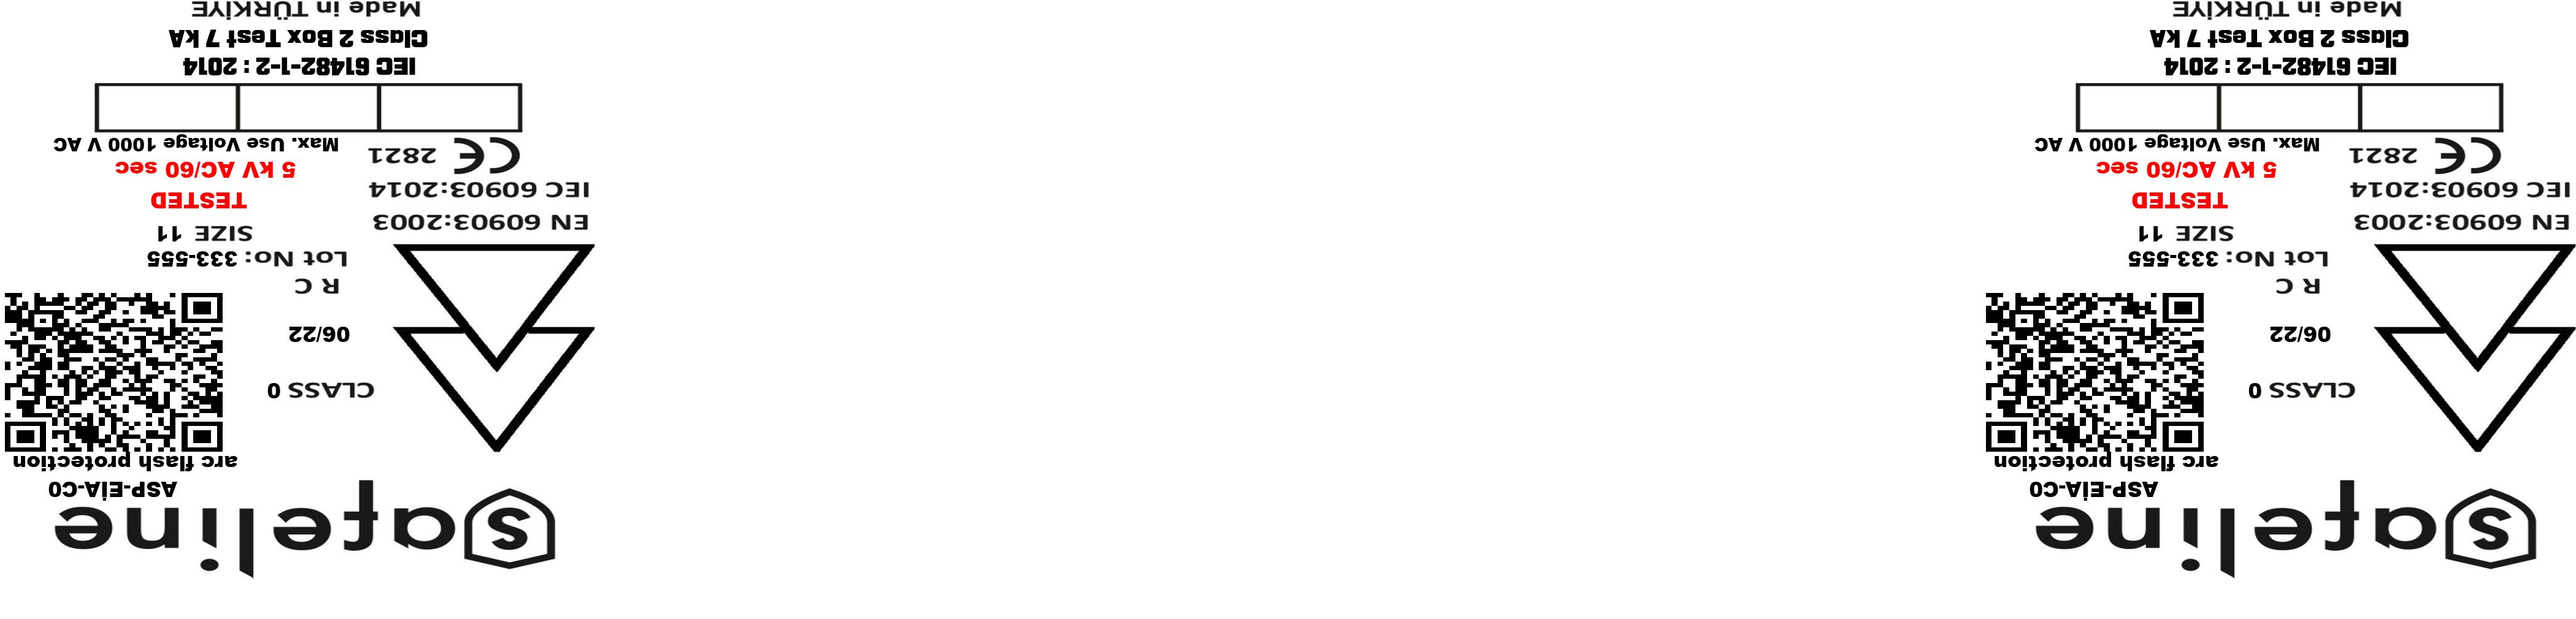
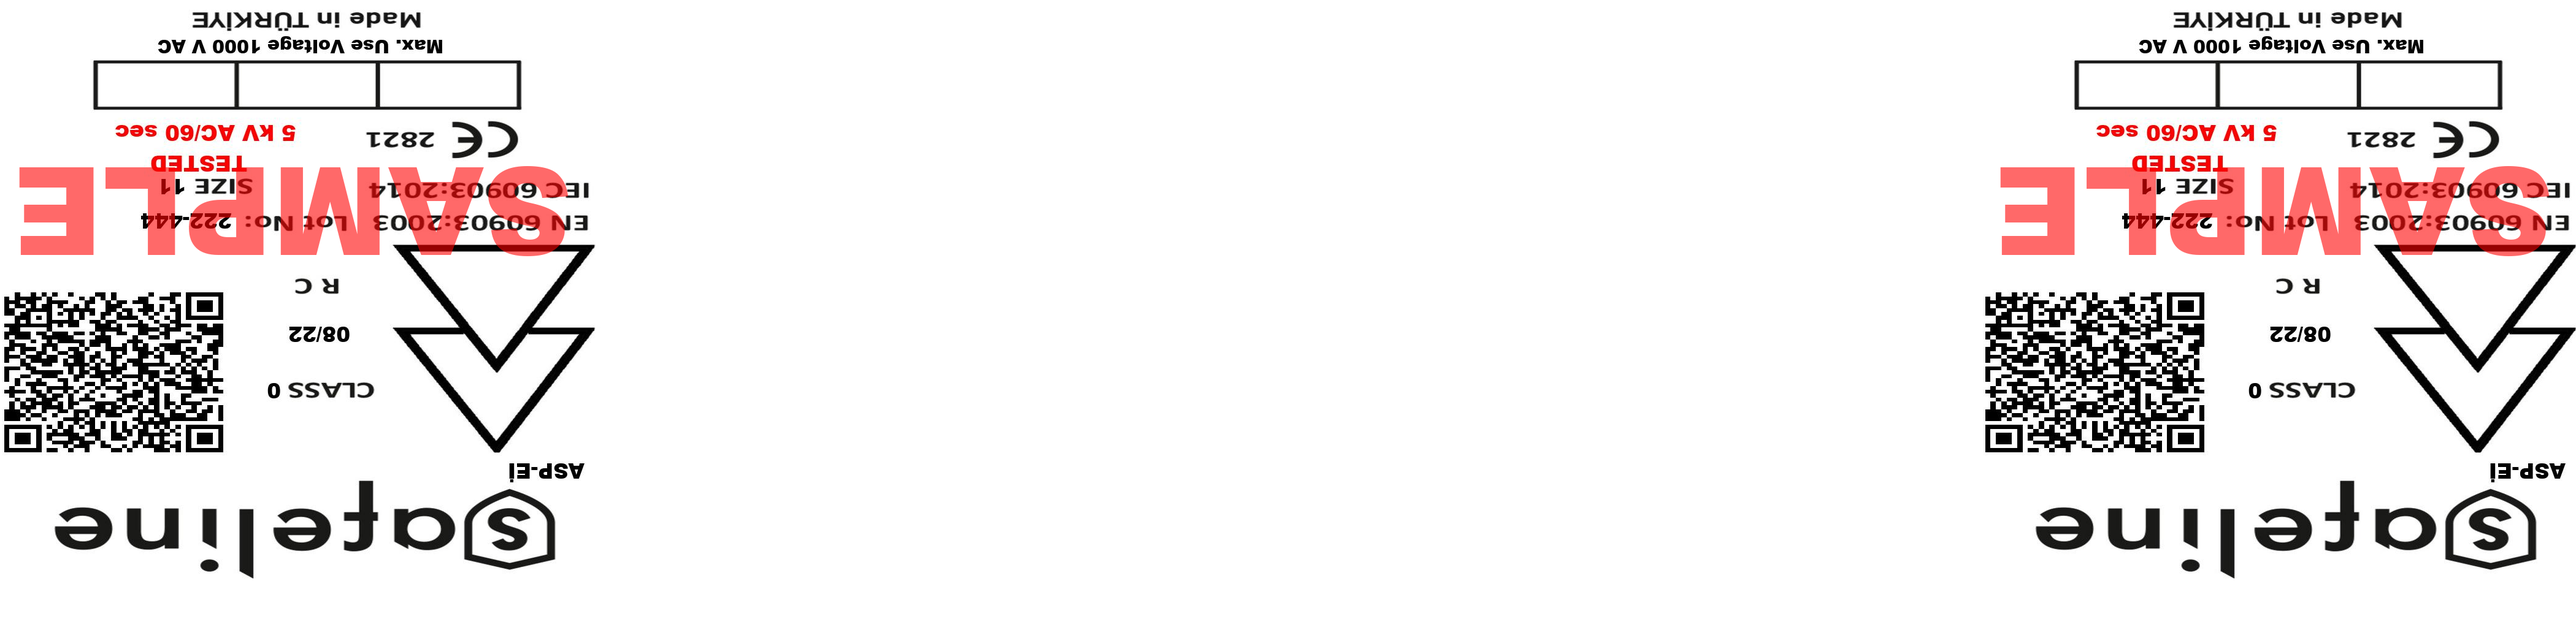
Class 1 Seçeneği Eklendi.

diff --git a/Kod/functions.py b/Kod/functions.py
@@ -94,6 +94,10 @@ def qrCodeOlustur(sinifInput,saEleman,isSample):
         testkv = "5kV"
         maxUseVoltage = "1000V"
 
+    elif(sinifInput == "1"):
+        testkv = "10kV"
+        maxUseVoltage = "7500V"
+
     elif(sinifInput == "4"):
         testkv = "40kV"
         maxUseVoltage = "36.000V"
@@ -260,7 +264,7 @@ def yaziResimBirlesme(classType,size,lotNo,saEleman,boxTest):
                                 fill=(255, 0, 0))  # SOLBOSLUK,USTBOSLUK
 
             if (boxTest):  # box test checkbox'u işaretlendiyse burası true oluyor.
-                arcDetay = "  IEC 61482-1-2 : 2014 Class 2 Box Test 7 kA\n\t\t\t\t\t\t\t\tASTM F2675:APTV {} cal/cm".format(calVeri)
+                arcDetay = "  IEC 61482-1-2 : 2014 Class 2 Box Test 7 kA\n\t\t\t\t\t\t\t\tASTM F2675:APTV {} cal/cm²".format(calVeri)
                 arcDetayEtiket = ImageDraw.Draw(img)
                 arcDetayEtiket.text((90, 810), "{}".format(arcDetay), font=arcDetayFont,
                                     fill=(0, 0, 0))  # SOLBOSLUK,USTBOSLUK
@@ -294,6 +298,10 @@ def yaziResimBirlesme(classType,size,lotNo,saEleman,boxTest):
     elif (classType == "0"):
         maxUseVoltage = "Max. Use Voltage 1000 V AC"
         testInfo = "5 kV AC/60 sec"
+
+    elif(classType == "1"):
+        maxUseVoltage = "Max. Use Voltage 7500 V AC"
+        testInfo = "10 kV AC/60 sec"
 
     elif (classType == "4"):
         maxUseVoltage = "Max. Use Voltage 36000 V AC"
